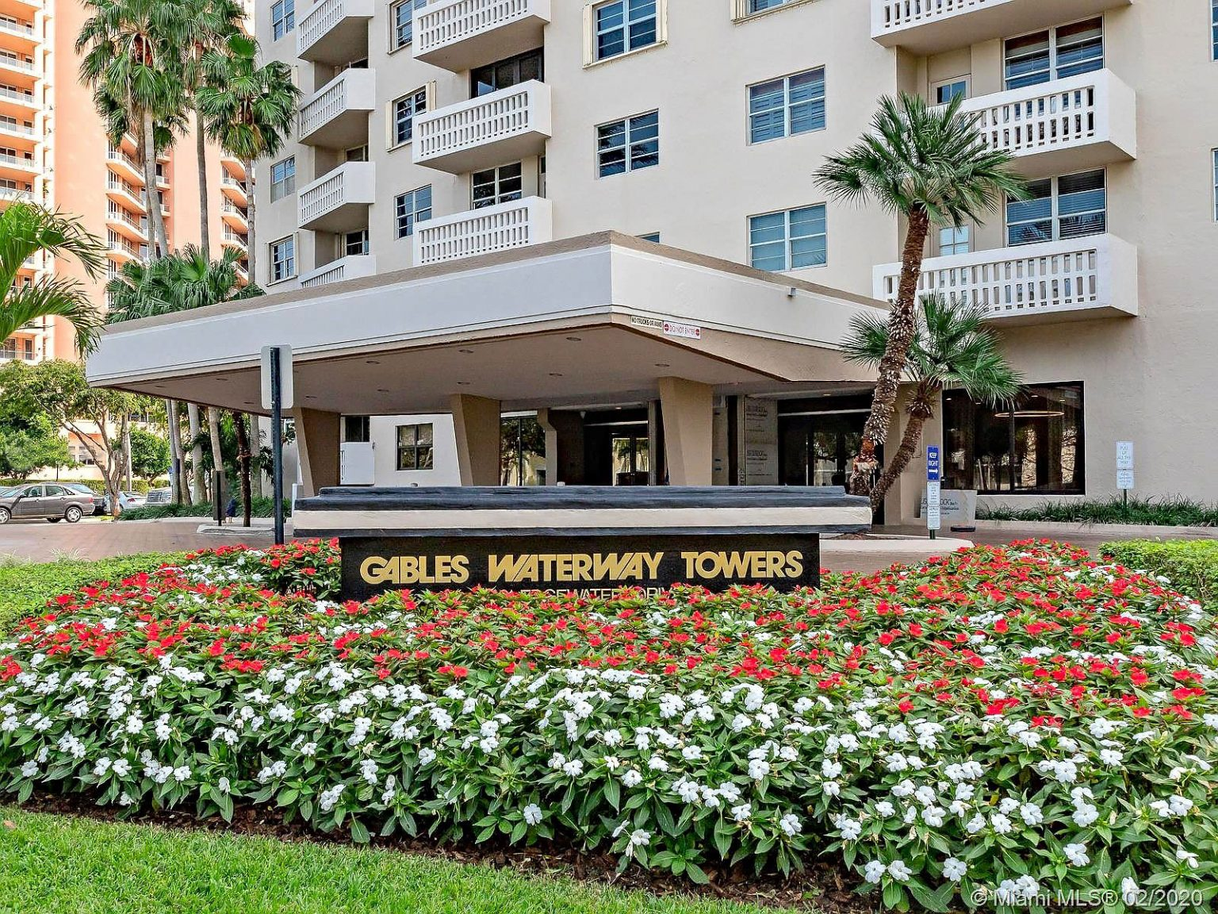
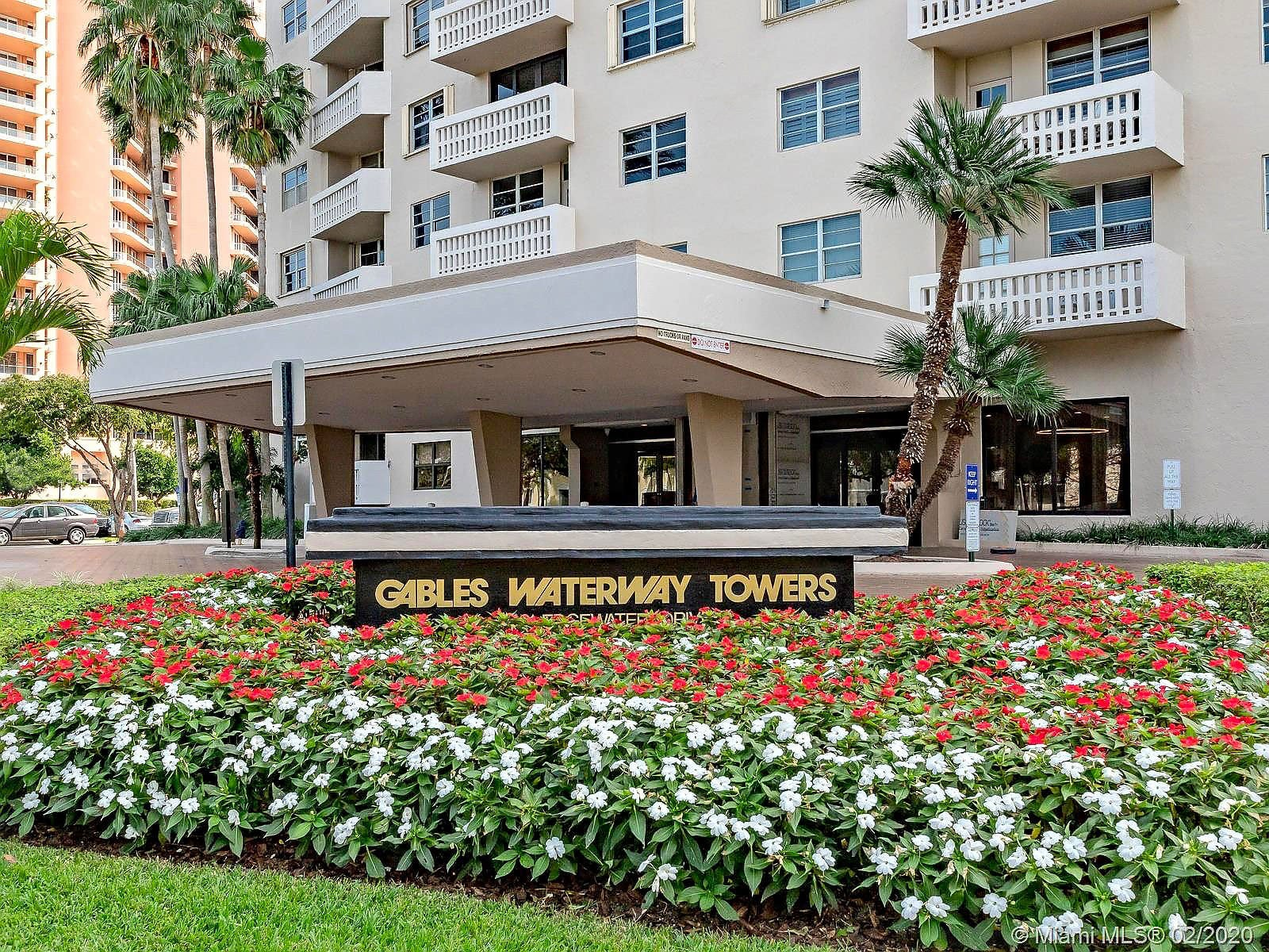
Integrar el banco de imágenes depurado del cliente
- Galerías: St. Louis y South Point reemplazan su provisional de «equipo
  en obra» por fotos reales de cada obra (contención con cartel de riesgo
  microbiano; air scrubber de WRG dentro de una contención). Quedan 9
  provisionales: el banco no trae fotos de Icon Bay, Gables ni de la
  reparación terminada de South Point.
- Gables · entrada: versión mayor del mismo original (1600×1200).
- St. Louis · área afectada: texto alternativo corregido (moldura del
  techo bajo un cartel de salida, no un zócalo).
- Blog: 18 imágenes reemplazadas por el original del banco (hasta 2400 px)
  y la plantilla del artículo genera hasta 2400 px.
- Se retiran las dos fotos provisionales que quedaron sin uso.
- Oficinas, tercer perfil de About y banda de Mold Remediation siguen
  abiertos: el banco no trae fotos que los cubran.
- Documentación: fotos-sitio.md, fotos-home.md, pendientes.md y
  blog-migracion.md.

Claude-Session: https://claude.ai/code/session_01GfKaC49KmzZ8hAcGsAr5zX

diff --git a/src/data/photos.ts b/src/data/photos.ts
@@ -24,6 +24,8 @@ import hallwayDrying from '../assets/blog/condo-hallway-drying.jpg';
 import moldContainment from '../assets/services/mold-containment.jpg';
 import slExterior from '../assets/projects/st-louis-exterior.jpg';
 import slRepaired from '../assets/projects/st-louis-repaired-ceiling.jpg';
+import slContainment from '../assets/projects/st-louis-containment-entrance.jpg';
+import spAirScrubber from '../assets/projects/south-point-air-scrubber.jpg';
 import profile1 from '../assets/about/profile-1.jpg';
 import profile2 from '../assets/about/profile-2.jpg';
 // Provisional gallery images: similar situations, not the project site.
@@ -32,8 +34,6 @@ import pvHallwayDrying from '../assets/projects/provisional/hallway-drying-equip
 import pvDrywall from '../assets/projects/provisional/drywall-installation.jpg';
 import pvDryingRoom from '../assets/projects/provisional/drying-opened-room.jpg';
 import pvCrewVan from '../assets/projects/provisional/wrg-crew-van-high-rise.jpg';
-import pvHallwayTech from '../assets/projects/provisional/technician-hallway-treatment.jpg';
-import pvContainmentTech from '../assets/projects/provisional/technician-inside-containment.jpg';
 import pvVacuum from '../assets/projects/provisional/cleanup-vacuum.jpg';
 
 export type Img = {
@@ -101,22 +101,22 @@ export const projectGallery: Record<string, (Img | null)[]> = {
     pv(fireRoom, 'A soot-darkened bedroom after a fire, with part of the ceiling opened.', '50% 45%', 1600),
     pv(pvDryingRoom, 'An air mover and a dehumidifier drying a room opened down to its wood framing.', '50% 60%', 1080),
     pv(drywall, 'A hand applying joint compound to a ceiling repair with a putty knife.', '55% 50%', 1600),
-    { src: gablesEntrance, alt: 'The covered entrance of Gables Waterway Towers behind a bed of red and white flowers.', pos: '50% 55%', max: 1536 },
+    { src: gablesEntrance, alt: 'The covered entrance of Gables Waterway Towers behind a bed of red and white flowers.', pos: '50% 55%', max: 1600 },
     pv(pvVacuum, 'A worker in boots vacuuming a floor with an industrial wet-dry vacuum.', '50% 60%', 1600),
   ],
   'st-louis-condominium': [
-    { src: slAffected, alt: 'Dark mold growth along the top of a baseboard and wall in a St. Louis Condominium unit.', pos: '50% 50%', max: 655 },
+    { src: slAffected, alt: 'Dark mold growth along a curved ceiling soffit below an exit sign at St. Louis Condominium.', pos: '50% 50%', max: 655 },
     { src: slHallway, alt: 'A St. Louis Condominium hallway with baseboards and flooring removed during remediation.', pos: '50% 50%', max: 655 },
     { src: slRepaired, alt: 'A clean, repainted wall and ceiling corner in a St. Louis Condominium unit.', pos: '50% 50%', max: 655 },
     { src: slExterior, alt: 'The St. Louis Condominium tower on Brickell Key seen from below against a blue sky.', pos: '50% 45%', max: 1310 },
-    pv(pvHallwayTech, 'A technician in a protective suit applying a treatment along a building hallway.', '50% 40%', 1080),
+    { src: slContainment, alt: 'A plastic containment sealing off a St. Louis Condominium hallway, with spring poles, caution tape and a microbial hazard sign.', pos: '50% 45%', max: 655 },
   ],
   'south-point-condominium': [
     { src: spAffected, alt: 'Pieces of removed drywall with mold growth on a protected floor at South Point Condominium.', pos: '50% 50%', max: 655 },
     { src: spContainment, alt: 'Plastic containment and an air scrubber set up inside a South Point Condominium unit.', pos: '50% 50%', max: 655 },
     pv(pvDrywall, 'A gloved hand fastening a new drywall panel with a screw gun.', '40% 50%', 1600),
     { src: spExterior, alt: 'View from a South Point Condominium balcony toward the building and the beach in Fort Lauderdale.', pos: '50% 50%', max: 655 },
-    pv(pvContainmentTech, 'A technician in a protective suit and respirator working on a ceiling inside a plastic containment.', '50% 30%', 1080),
+    { src: spAirScrubber, alt: 'A WRG air scrubber running inside a plastic containment at South Point Condominium, with the window sealed and taped.', pos: '60% 60%', max: 655 },
   ],
 };
 

diff --git a/docs/fotos-sitio.md b/docs/fotos-sitio.md
@@ -14,12 +14,14 @@ Continuación de [fotos-home.md](fotos-home.md), con el mismo banco de imágenes
 | Servicios · tarjetas de casos relacionados | 16:9 | Foto principal de cada proyecto (ver home) | `home/*.jpg` | ver home | Foco por formato | Integradas |
 | Proyectos · índice (4 tarjetas) | 16:10 | Foto principal de cada proyecto | `home/*.jpg` | ver home | Foco por formato | Integradas |
 | Caso · foto principal (4 casos) | 21:9 / 4:3 móvil | Foto principal de cada proyecto | `home/*.jpg` | ver home | Foco por formato | Integradas |
-| Galería St. Louis · área afectada | 4:3 (grande) | `St.-Louis-Condominium-Interior-1` 655×494: moho sobre zócalo y pared | `projects/st-louis-affected-trim.jpg` | 36+18+16+12 = **82** | Ninguno | Integrada |
+| Galería St. Louis · área afectada | 4:3 (grande) | `St.-Louis-Condominium-Interior-1` 655×494: moho a lo largo de una moldura curva del techo, bajo un cartel de salida (texto alternativo corregido el 21 nov 2026) | `projects/st-louis-affected-trim.jpg` | 36+18+16+12 = **82** | Ninguno | Integrada |
 | Galería St. Louis · proceso | 4:3 | `St.-Louis-Condominium-Interior-4` 655×494: pasillo con zócalos y piso retirados | `projects/st-louis-hallway-removal.jpg` | 33+18+17+12 = **80** | Ninguno | Integrada |
 | Galería South Point · área afectada | 4:3 (grande) | `South-Point-Condominium-Interior-1` 655×494: drywall retirado con moho | `projects/south-point-affected-drywall.jpg` | 37+18+17+12 = **84** | WebP → JPEG | Integrada |
 | Galería South Point · equipo/proceso | 4:3 | `South-Point-Condominium-Interior-4` 655×494: contención y equipo WRG | `projects/south-point-containment.jpg` | 37+18+17+12 = **84** | Ninguno | Integrada |
 | Galería South Point · contexto | 4:3 | `South-Point-Condominium-Exterior` 655×494: torre y playa desde un balcón | `projects/south-point-exterior.jpg` | 36+18+17+14 = **85** | Ninguno | Integrada |
-| Galería Gables · contexto | 4:3 | `Gables-Waterway-Towers-Entrance-Exterior` 1536×1152 | `projects/gables-entrance.jpg` | 38+21+18+14 = **91** | Ninguno | Integrada |
+| Galería South Point · equipo en obra | 4:3 | `South-Point-Condominium-Interior-5` 655×494 (banco depurado): air scrubber de WRG funcionando dentro de una contención, con la ventana sellada | `projects/south-point-air-scrubber.jpg` | 34+18+15+13 = **80** | Ninguno | Integrada (reemplaza a una provisional, 21 nov 2026) |
+| Galería St. Louis · equipo en obra | 4:3 | `St.-Louis-Condominium-Interior-2` 655×494 (banco depurado): contención que cierra un pasillo, con postes, cinta de precaución y cartel de riesgo microbiano | `projects/st-louis-containment-entrance.jpg` | 35+18+15+13 = **81** | Ninguno | Integrada (reemplaza a una provisional, 21 nov 2026) |
+| Galería Gables · contexto | 4:3 | `Gables-Waterway-Towers-Entrance-Exterior` 1600×1200 (banco depurado; antes 1536×1152) | `projects/gables-entrance.jpg` | 38+22+18+14 = **92** | Ninguno | Integrada |
 | Galería Icon Bay · contexto | 4:3 | `Icon-Bay-Exterior` 1920×1320: torre desde el agua al atardecer | `projects/icon-bay-exterior.jpg` | 36+22+18+14 = **90** | Ninguno | Integrada |
 | About · foto principal | 5:4 | `Inspection-and-Assessment-1` 1080×1050: técnico con camiseta WRG documentando un techo | `about/wrg-technician-inspection.jpg` | 37+20+17+13 = **87** | Solo foco | Integrada |
 | About · 4 tarjetas de proyecto | 1:1 | Foto principal de cada proyecto | `home/*.jpg` | ver home | Foco | Integradas |
@@ -28,9 +30,9 @@ Continuación de [fotos-home.md](fotos-home.md), con el mismo banco de imágenes
 
 Las imágenes de servicios marcadas como «ilustrativas» no se atribuyen a trabajos de WRG: el texto alternativo describe la escena sin decir que es una obra de la empresa.
 
-## Fotos provisionales en las galerías (12 nov 2026)
+## Fotos provisionales en las galerías (12 nov 2026, actualizado el 21 nov 2026)
 
-A pedido del cliente, los espacios vacíos de las galerías se llenaron con fotos del banco que muestran **situaciones parecidas, no la obra del caso**. No se pueden generar fotografías nuevas: todas salen del backup del sitio anterior. En el sitio llevan la etiqueta visible «Representative image» (campo `provisional` en `src/data/photos.ts`, función `pv()`), el texto alternativo describe la escena sin atribuirla al edificio, y la galería avisa que esas imágenes no son de la propiedad. Están en `src/assets/projects/provisional/`.
+Quedan **9** provisionales. Las de St. Louis · equipo y South Point · equipo se reemplazaron el 21 nov 2026 por fotos reales de cada obra (ver la tabla anterior y la sección del banco depurado). A pedido del cliente, los espacios vacíos de las galerías se llenaron con fotos del banco que muestran **situaciones parecidas, no la obra del caso**. No se pueden generar fotografías nuevas: todas salen del backup del sitio anterior. En el sitio llevan la etiqueta visible «Representative image» (campo `provisional` en `src/data/photos.ts`, función `pv()`), el texto alternativo describe la escena sin atribuirla al edificio, y la galería avisa que esas imágenes no son de la propiedad. Están en `src/assets/projects/provisional/`.
 
 | Caso · espacio | Foto provisional (banco) | Origen |
 |---|---|---|
@@ -42,9 +44,7 @@ A pedido del cliente, los espacios vacíos de las galerías se llenaron con foto
 | Gables · proceso | `Drying-and-Dehumidification-1` 1080×1080: secado en una habitación abierta hasta la estructura | WRG |
 | Gables · reparación | Reparación de techo de drywall (la misma de la banda de Reconstruction) | Stock |
 | Gables · equipo | `Contact-1` 1920×1280: aspirado con equipo industrial | Stock |
-| St. Louis · equipo | `Cleaning-and-Sanitization` 1080×1080: técnico con traje aplicando tratamiento en un pasillo | Stock |
 | South Point · reparación | `Reconstruction-1`: instalación de drywall | Stock |
-| South Point · equipo | `Protect-Your-Property-with-Professional-1` 1080×1400: técnico con respirador dentro de una contención | Stock |
 
 **Antes del lanzamiento** hay que reemplazarlas por fotos de cada obra: basta cambiar la entrada en `projectGallery` por una normal (sin `pv()`).
 
@@ -57,10 +57,10 @@ Fotos reales añadidas en la misma tanda:
 
 ## Pendientes: fotos que hace falta conseguir
 
-- **Galerías:** las fotos de cada obra que sustituyan a las 11 provisionales de la tabla anterior.
-- **Oficinas (índice de ubicaciones, 3 espacios):** fotos de Miami, West Palm Beach y Smyrna. No hay ninguna en el banco; el cliente las compartirá.
-- **About:** tercer perfil, y nombre y cargo de los tres.
-- **Mold Remediation (banda):** opcional, el original de cámara de `Containment-1` (≥ 2400 px).
+- **Galerías:** las fotos de cada obra que sustituyan a las 9 provisionales de la tabla anterior. El banco depurado no trae interiores de Icon Bay ni de Gables, ni fotos de reparación terminada de South Point.
+- **Oficinas (índice de ubicaciones, 3 espacios):** fotos de Miami, West Palm Beach y Smyrna. Tampoco hay ninguna en el banco depurado (las vistas de Atlanta son horizontes de la ciudad, no la oficina de Smyrna); el cliente las compartirá.
+- **About:** tercer perfil, y nombre y cargo de los tres. Ver la nota sobre retratos en la sección del banco depurado.
+- **Mold Remediation (banda):** opcional, el original de cámara de `Containment-1` (≥ 2400 px). El banco depurado solo trae la versión de 1080×1080.
 
 ## Carpeta «Imagenes de trabajo en sitio» (11 nov 2026)
 
@@ -83,3 +83,33 @@ Fotos reales añadidas en la misma tanda:
 - La asociación de propietarios no se opone a publicar los interiores de South Point y St. Louis.
 - La autoría de `Icon-Bay-Exterior` está confirmada para su uso en el sitio.
 - La licencia original de las fotos ilustrativas de servicios y de Miami cubre su uso en el sitio.
+
+## Banco depurado «filtered-images» (21 nov 2026)
+
+El cliente depuró el banco en Drive (carpeta «The Water Restoration Group / Archivos» › `filtered-images`, unos 660 archivos: originales del sitio anterior y sus variantes responsivas). WRG confirmó que tiene derechos sobre todo el banco. Se descargó el original más grande de cada imagen (≈ 145), se revisaron en hojas de contacto con nombre y dimensiones, y se compararon por similitud visual con las imágenes ya publicadas. No se revisaron logos, insignias ni iconos. La carpeta «Imagenes de trabajo en sitio» no cambió desde la revisión del 11 nov.
+
+**Integradas**
+
+| Espacio | Foto del banco | Archivo | Puntaje | Estado |
+|---|---|---|---|---|
+| St. Louis · equipo en obra | `St.-Louis-Condominium-Interior-2` 655×494 | `projects/st-louis-containment-entrance.jpg` | 35+18+15+13 = **81** | Reemplaza a la provisional `Cleaning-and-Sanitization` (stock) |
+| South Point · equipo en obra | `South-Point-Condominium-Interior-5` 655×494 | `projects/south-point-air-scrubber.jpg` | 34+18+15+13 = **80** | Reemplaza a la provisional `Protect-Your-Property-with-Professional-1` (stock) |
+| Gables · contexto | `Gables-Waterway-Towers-Entrance-Exterior` 1600×1200 | `projects/gables-entrance.jpg` | 38+22+18+14 = **92** | Misma foto, versión mayor |
+| Blog · 18 artículos | Originales de 1680 a 2560 px | `blog/posts/*.jpg` | Misma foto | Ver [blog-migracion.md](blog-migracion.md#imágenes-del-banco-depurado-21-nov-2026) |
+
+En la galería, el pie de cada espacio no se muestra sobre la foto (solo el texto alternativo), así que las dos fotos de «equipo en obra» no quedan rotuladas como «Team at work»: muestran el montaje del equipo de WRG en la obra, sin personas.
+
+**Revisadas y sin cambio**
+
+- **Icon Bay y Gables:** el banco solo trae las fachadas que ya se usan (`Icon-Bay-Main`, `Icon-Bay-Exterior`, `Gables-Waterway-Towers-Main`). Sus 8 provisionales siguen.
+- **South Point · reparación:** no hay foto de reparación terminada; sigue la provisional. `South-Point-Condominium-Interior-2` (techo abierto con ductos) y `-Interior-3` (manchas de moho, primer plano poco nítido) son reales pero no corresponden a ningún espacio libre.
+- **Oficinas:** ninguna foto muestra una oficina. `Serving-All-of-Atlanta-and-Surrounding-Areas` y `Our-service-areas-include-1` son horizontes de Atlanta muy aclarados (fondos del sitio anterior): no son la oficina de Smyrna.
+- **About · perfiles:** `Henry Dow CEO WRG.png` y `Monica Martinez Sales Manager WRG.png` (400×400) son los mismos dos retratos ya publicados; no hay versión mayor. Los retratos `Fernando-Dow`, `Francisco-Giron`, `Jose-Romero` y `Monica-Martinez` miden 430×286: no alcanzan para un perfil 4:5 de 800 px y nada en la carpeta indica que estén aprobados para publicarse. No se añadió un tercer perfil ni se publicaron nombres: además, `Monica-Martinez.jpg` muestra a una persona distinta de la del retrato `Monica Martinez Sales Manager WRG.png`, así que los nombres de archivo no sirven como confirmación.
+- **Mold Remediation (banda):** `Containment-1` sigue siendo de 1080×1080. `St.-Louis-Condominium-Interior-2` es una contención real pero de 655 px.
+- **Bandas de servicio, hero de About, Miami y blog destacado:** las alternativas reales de WRG (`Removal-and-Cleaning-1`, `Water-Removal-and-Extraction-1`, `Drying-and-Dehumidification-1`, `About.jpg`, `Mold-Remediation-Atlanta-Featured-Image`) son cuadradas de 1080 px o muestran vehículos; no mejoran las bandas 21:8 de 2400 px ni el hero de About.
+
+**Descartadas**
+
+- Personas identificables o eventos (Events está excluido): `Untitled-design-70.png`, `WhatsApp-Image-2021-07-21…`, `WhatsApp-Image-2021-02-09…`, `Why-Is-Continuing-Education-Important.webp`, `IMG_0072`, `Meet-Our-CEO`, `Contact.jpg` (persona junto a un auto de WRG), `WRG-Events`, `Events`.
+- Gráficos con texto o baja resolución: `City-Buildings-Facebook-Cover-*` (828×315), `Henry-Dow.png` (firma de correo), `WRG-Slim-Banner`, `About-The-Water-Restoration-Group` (fondo de color con recorte).
+- Fuera de tema o de stock sin relación con un espacio: `space.jpg`, `Sea-Turtle-Season`, `Coronavirus-Services`, `Water-Background`, entre otros.

diff --git a/docs/blog-migracion.md b/docs/blog-migracion.md
@@ -7,7 +7,7 @@ Se migraron los **52 artículos** publicados en `thewaterrestorationgroup.com/bl
 - Título, texto, subtítulos, listas, negritas y enlaces del artículo original.
 - Meta description (se usa como resumen), fecha de publicación y de última actualización.
 - Categorías del sitio anterior: la de la URL y las adicionales, que ahora son los temas del blog (`/blog/{tema}/` lista todos los artículos de cada tema).
-- Imagen destacada, tomada del backup de WordPress (`src/assets/blog/posts/`), redimensionada a 1600 px como máximo y con texto alternativo nuevo.
+- Imagen destacada, tomada del backup de WordPress (`src/assets/blog/posts/`), redimensionada a 1600 px como máximo y con texto alternativo nuevo. El 21 nov 2026, 18 de ellas se reemplazaron por el original del banco depurado (hasta 2400 px); ver abajo.
 
 ## Qué cambió
 
@@ -41,3 +41,34 @@ Cambios de texto por artículo (también visibles en modo revisión al pie de ca
 ## Cómo añadir o editar un artículo migrado
 
 Editar el archivo Markdown. El encabezado (`---`) lleva `title`, `description`, `published`, `updated`, `tags` (el primero es la categoría de la URL), `image` e `imageAlt`.
+
+## Imágenes del banco depurado (21 nov 2026)
+
+Se compararon las 52 imágenes con el banco depurado del cliente (`filtered-images`) por similitud visual. 50 están en el banco con la misma foto. Se reemplazaron por el original, procesado con `sharp` (giro según EXIF, 2400 px como máximo, JPEG calidad 84), las 18 que el banco trae en mayor resolución. La plantilla del artículo ahora genera hasta 2400 px (antes 1600) para que se vean nítidas en pantallas de alta densidad. El texto alternativo no cambia porque es la misma foto.
+
+| Artículo (imagen) | Antes | Ahora | Original en el banco |
+|---|---|---|---|
+| `flood-damage-prevention-5-steps` | 1600×1065 | 1920×1278 | `Flood-Damage-Prevention-In-5-Steps.jpg` |
+| `how-long-does-a-landlord-have-to-fix-water-damage` | 1600×1202 | 1999×1502 | `image1-3.jpg` |
+| `how-to-get-through-water-damage` | 1600×1067 | 1680×1120 | `How-To-Get-Through-Water-Damage.jpg` |
+| `hurricane-checklist-property-managers` | 1600×1067 | 1920×1280 | `Hurricane-Checklist-For-Property-Managers.jpg` |
+| `hurricane-insurance-documentation-tips` | 1600×811 | 2400×1216 | `Hurricane-Insurance-Documentation-Tips-scaled.jpg` |
+| `hurricane-preparedness-for-property-managers` | 1600×811 | 2250×1140 | `Pre-Storm-Planning-for-Property-Managers-Can-Make-or-Break-Recovery.jpg` |
+| `know-the-affects-of-a-house-fire-aftermath` | 1600×946 | 1920×1135 | `Know-The-Affects-of-A-House-Fire-Aftermath.jpg` |
+| `overcoming-biggest-challenges-property-managers` | 1600×1067 | 1920×1280 | `Overcoming-Biggest-Challenges-For-Property-Managers.jpg` |
+| `property-management-productivity` | 1600×1068 | 1920×1282 | `How-Tech-Has-Boosted-Property-Management-Productivity.jpg` |
+| `removing-black-mold` | 1600×811 | 2250×1140 | `Removing-black-mold.jpg` |
+| `smoke-damage-how-to-claim-insurance-for-repairs` | 1600×1067 | 1920×1280 | `Smoke-Damage-How-To-Claim-Insurance-For-Repairs.jpg` |
+| `south-florida-businesses-and-disasters` | 1600×900 | 1920×1080 | `South-Florida-Businesses-and-Disasters.jpg` |
+| `tips-to-stop-a-basement-flood` | 1600×1067 | 1920×1280 | `Tips-To-Prevent-A-Basement-Flood.jpg` |
+| `understanding-water-damage-restoration` | 1600×1067 | 1999×1333 | `image1.jpg` |
+| `water-damage-ways-to-repair-a-drywall` | 1600×1067 | 2400×1600 | `Water-Damage-Ways-To-Repair-A-Drywall.jpg` |
+| `what-is-environmental-cleanup` | 1600×1067 | 1920×1280 | `Environmental-Cleanup.jpg` |
+| `what-is-water-damage-restoration-an-essential-guide` | 1600×1067 | 1999×1333 | `image1-1.jpg` |
+| `what-to-do-when-theres-water-under-my-house` | 1600×1067 | 1999×1333 | `image1-2.jpg` |
+
+Sin cambio:
+
+- Las otras 32 ya estaban a la resolución del original.
+- `certificates-of-insurance-from-vendors` y `how-to-repair-water-damaged-drywall` (690×450, la más débil): su imagen no está en el banco depurado.
+- Los 3 artículos sin imagen siguen sin ella: para `10-fall-maintenance-tips-and-checklist-for-property-managers` y `are-you-ready-in-case-of-an-emergency` el banco solo trae los banners gráficos con texto (`City-Buildings-Facebook-Cover-*`, 828×315), y para `why-is-continuing-education-important` la foto de una clase CEU con personas identificables, incluidos niños (Events está excluido del sitio).

diff --git a/docs/pendientes.md b/docs/pendientes.md
@@ -7,12 +7,13 @@ Mientras `PUBLIC_REVIEW_MODE` no sea `false`, el sitio muestra estas advertencia
 - [x] Logo oficial: monograma WRG del sitio anterior en `LogoMark.astro` (header azul, footer blanco), favicon (`public/favicon.svg`, `favicon-32.png`, `apple-touch-icon.png`) e imagen para redes `public/og-image.jpg`. Se regeneran con `node scripts/make-brand-assets.mjs`.
 - [x] Fotografía del home (hero, tarjeta comercial y los 4 proyectos), integrada con `Photo.astro` (`<Picture>` de `astro:assets`). Detalle, puntajes y verificaciones pendientes en [fotos-home.md](fotos-home.md).
 - [x] Fotografía de servicios, proyectos, About, Miami y blog, centralizada en `src/data/photos.ts`. Detalle en [fotos-sitio.md](fotos-sitio.md).
-- [x] Banda de Mold Remediation: `Containment-1` (1080 px, el original más grande que existe en el backup) ampliada a 2160 px.
+- [x] Banda de Mold Remediation: `Containment-1` (1080 px, el original más grande que existe en el backup y en el banco depurado) ampliada a 2160 px. Sigue abierto conseguir el original de cámara.
 - [x] Licencia de `Home.jpg` (hero): el cliente confirmó que cubre el uso en la web (12 nov 2026).
 - [x] Perfiles de About: publicados los dos retratos aprobados (`Untitled-design-59/60`, las mismas fotos de `1-2.png` y `2-2.png` en formato cuadrado), sin nombre ni cargo.
-- [ ] **Fotos provisionales en las galerías de los 4 casos** (11 espacios, con la etiqueta visible «Representative image»): hay que sustituirlas por fotos de cada obra antes del lanzamiento. Lista en [fotos-sitio.md](fotos-sitio.md#fotos-provisionales-en-las-galerías-12-nov-2026).
-- [ ] Fotos de las oficinas (3) para el índice de ubicaciones: a la espera de que el cliente las comparta.
-- [ ] Tercer perfil de About: foto, nombre y cargo.
+- [x] Banco depurado del cliente (`filtered-images`, 21 nov 2026): revisado completo. Reemplazó 2 provisionales (St. Louis y South Point · equipo en obra) por fotos reales de cada obra, subió la resolución de 18 imágenes del blog y de la entrada de Gables. Detalle en [fotos-sitio.md](fotos-sitio.md#banco-depurado-filtered-images-21-nov-2026).
+- [ ] **Fotos provisionales en las galerías de los 4 casos** (quedan 9, con la etiqueta visible «Representative image»: 4 de Icon Bay, 4 de Gables y South Point · reparación). El banco depurado no trae fotos de esas obras para esos espacios. Lista en [fotos-sitio.md](fotos-sitio.md#fotos-provisionales-en-las-galerías-12-nov-2026-actualizado-el-21-nov-2026).
+- [ ] Fotos de las oficinas (3) para el índice de ubicaciones: a la espera de que el cliente las comparta (el banco depurado no trae ninguna).
+- [ ] Tercer perfil de About: foto, nombre y cargo. El banco depurado solo trae retratos de 430×286 sin indicación de aprobación; los nombres de archivo no coinciden entre sí, así que no confirman nombres ni cargos.
 - [ ] Fotos de la escuela inundada: el cliente compartirá ese caso más adelante.
 - [ ] Las dos fotos provisionales del prototipo de diseño (equipo con equipos de secado y técnico con medidor de humedad) **no están en este repositorio público**: su origen y sus derechos de uso no están confirmados.
 

diff --git a/docs/fotos-home.md b/docs/fotos-home.md
@@ -48,3 +48,16 @@ Todas pasan las condiciones previas: sin marcas de agua, sin datos personales le
 - `Home.jpg` lleva en sus metadatos el copyright de un fotógrafo («Javier Sanchez»). El cliente confirmó el 12 nov 2026 que la licencia cubre el uso en la web.
 - ~~Autoría de las fotos de Icon Bay~~: confirmada el 11 nov 2026. Sigue pendiente la clasificación del caso (ver `pendientes.md`).
 - `The-WRG-Difference.jpg` está ampliada desde una foto de teléfono. Si existe el original, mejoraría la nitidez de la tarjeta comercial.
+
+## Revisión con el banco depurado (21 nov 2026)
+
+Se comparó el home con el banco depurado (`filtered-images`). Las seis fotos son las mismas y no hay versiones de mayor resolución: `Home.jpg` 1654×1098, `The-WRG-Difference.jpg` 1920×1920 (sigue siendo una ampliación desde teléfono), `Icon-Bay-Main-scaled` 1707×2560, `Gables-Waterway-Towers-Main` 2048×1536, `St.-Louis-Condominium` 1500×1000 y `South-Point-Condominium` 2400×840. No hay cambios en el home.
+
+| Espacio | Foto (banco) | Archivo | Puntaje | Estado |
+|---|---|---|---|---|
+| Hero | `Home.jpg` 1654×1098 | `home/wrg-technician-moisture-documentation.jpg` | **88** | Sin cambio |
+| Commercial & Property Management | `The-WRG-Difference.jpg` 1920×1920 | `home/wrg-truck-high-rise.jpg` | **82** | Sin cambio |
+| Icon Bay | `Icon-Bay-Main-scaled.jpg` 1707×2560 | `home/icon-bay.jpg` | **86** | Sin cambio |
+| Gables Waterway Towers | `Gables-Waterway-Towers-Main.jpg` 2048×1536 | `home/gables-waterway-towers.jpg` | **88** | Sin cambio |
+| St. Louis Condominium | `St.-Louis-Condominium.jpg` 1500×1000 | `home/st-louis-condominium.jpg` | **85** | Sin cambio |
+| South Point Condominium | `South-Point-Condominium.jpg` 2400×840 | `home/south-point-condominium.jpg` | **83** | Sin cambio |
